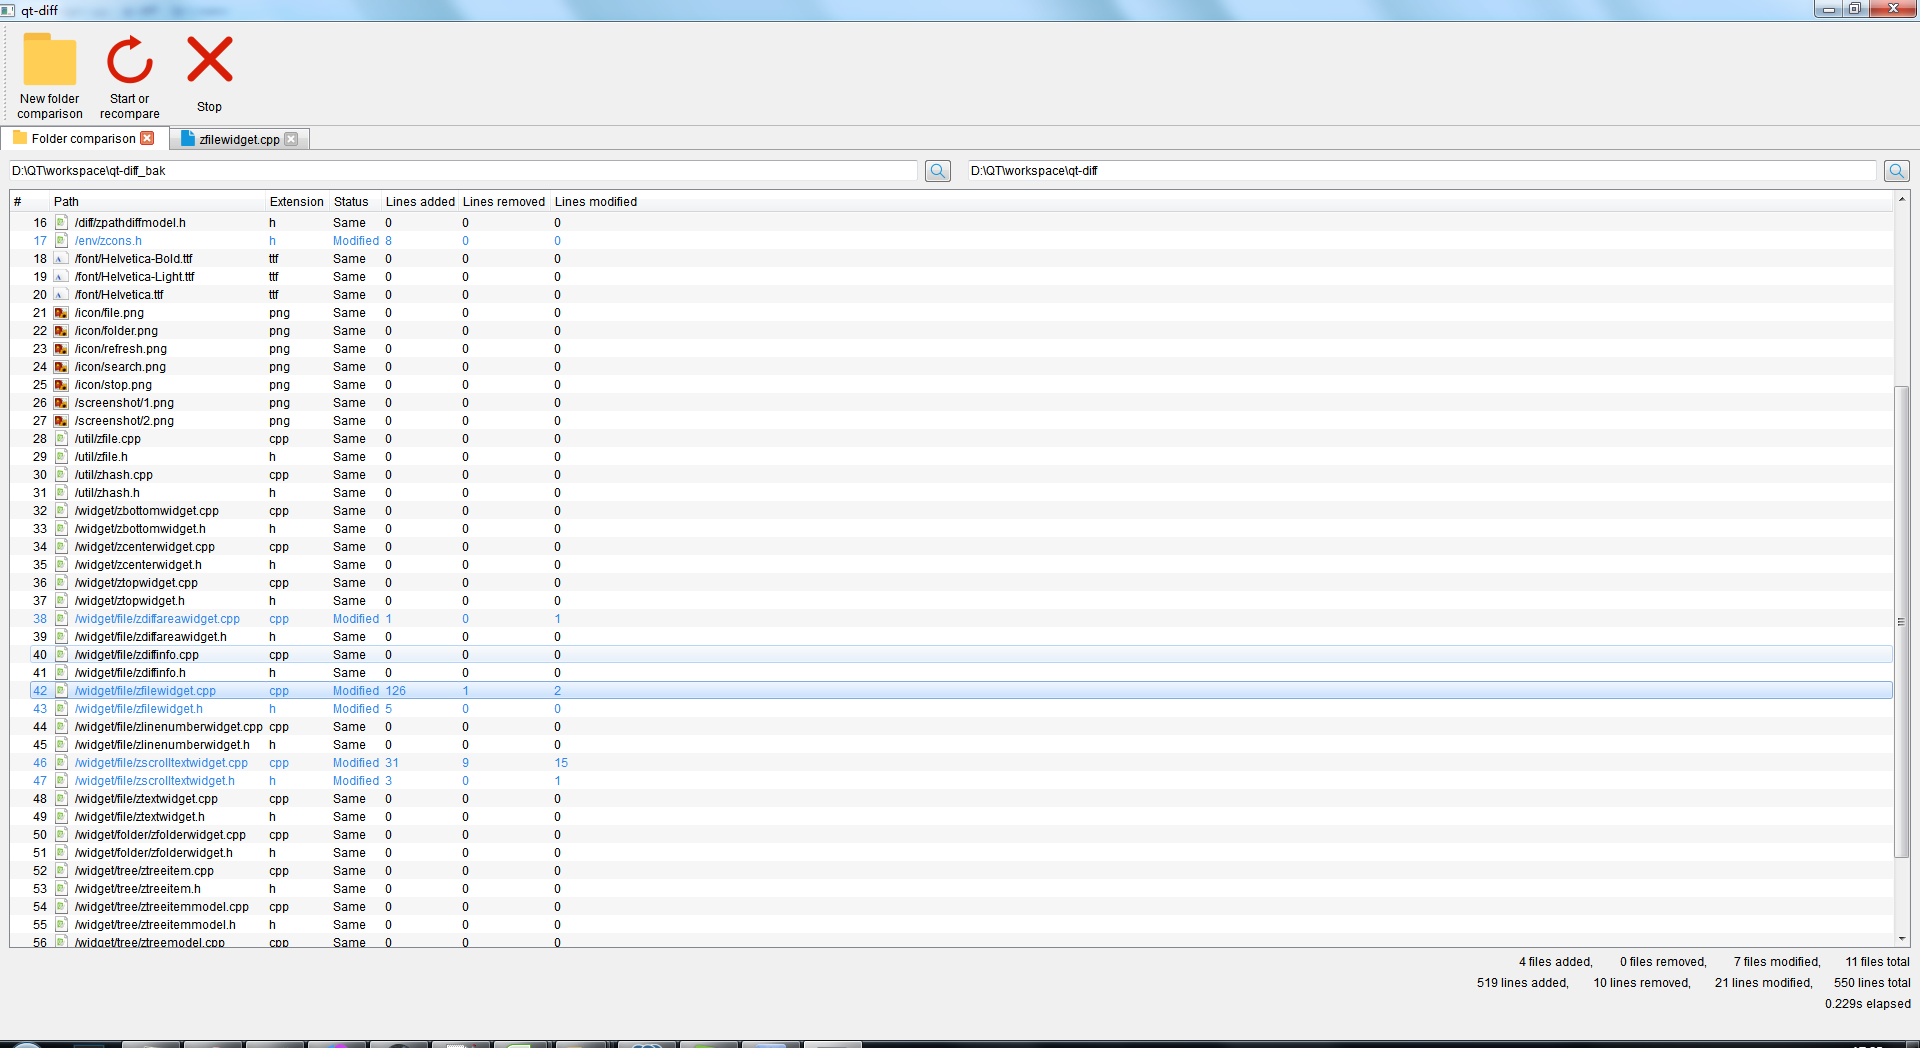
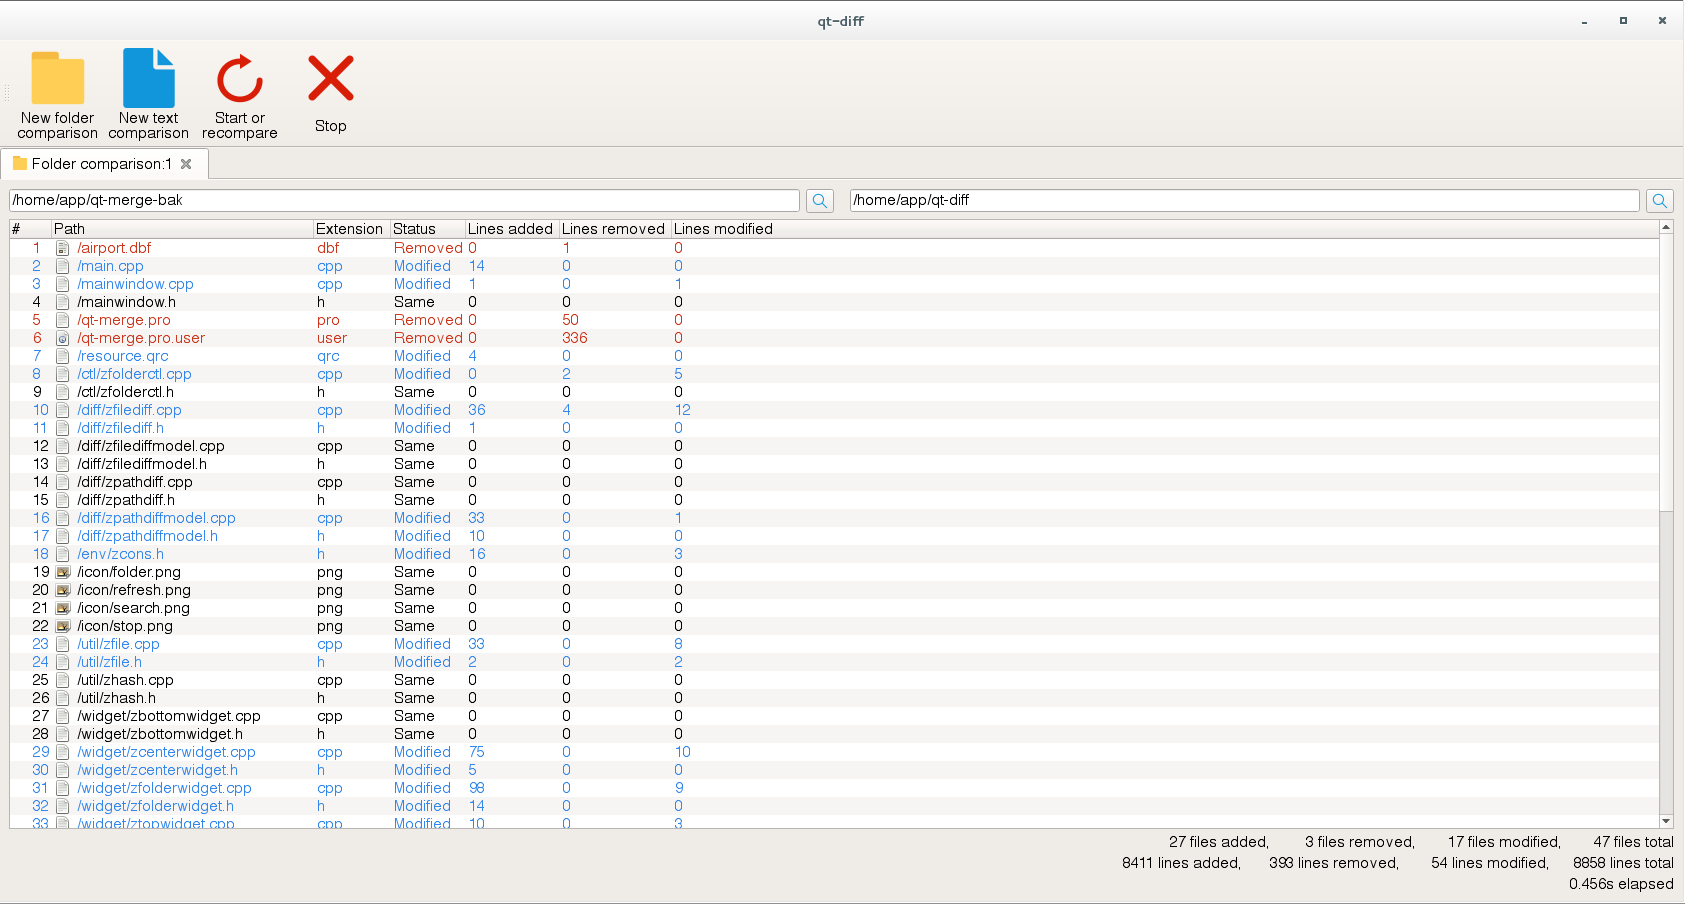
1. helvetica

Changed region(s): [[0.0, 0.0, 1.0, 1.0], [0.4629, 0.2168, 0.5864, 0.2478]]

diff --git a/widget/ztopwidget.cpp b/widget/ztopwidget.cpp
@@ -28,28 +28,28 @@ void ZTopWidget::initUI()
     mFolderButton->setIcon(folderIcon);
     mFolderButton->setText("New folder\ncomparison");
     mFolderButton->setToolButtonStyle(Qt::ToolButtonTextUnderIcon);
-    mFolderButton->setFixedSize(QSize(75, 100));
+    mFolderButton->setFixedSize(QSize(95, 100));
 
     mFileButton = new QToolButton;
     QIcon fileIcon(":/icon/file.png");
     mFileButton->setIcon(fileIcon);
     mFileButton->setText("New text\ncomparison");
     mFileButton->setToolButtonStyle(Qt::ToolButtonTextUnderIcon);
-    mFileButton->setFixedSize(QSize(75, 100));
+    mFileButton->setFixedSize(QSize(95, 100));
 
     mRefreshButton = new QToolButton;
     QIcon refreshIcon(":/icon/refresh.png");
     mRefreshButton->setIcon(refreshIcon);
     mRefreshButton->setText("Start or\nrecompare");
     mRefreshButton->setToolButtonStyle(Qt::ToolButtonTextUnderIcon);
-    mRefreshButton->setFixedSize(QSize(75, 100));
+    mRefreshButton->setFixedSize(QSize(95, 100));
 
     mStopButton = new QToolButton;
     QIcon stopIcon(":/icon/stop.png");
     mStopButton->setIcon(stopIcon);
     mStopButton->setText("Stop");
     mStopButton->setToolButtonStyle(Qt::ToolButtonTextUnderIcon);
-    mStopButton->setFixedSize(QSize(75, 100));
+    mStopButton->setFixedSize(QSize(95, 100));
 
     this->addWidget(mFolderButton);
     this->addWidget(mFileButton);

diff --git a/main.cpp b/main.cpp
@@ -14,7 +14,7 @@ int main(int argc, char *argv[])
     qDebug() << QFontDatabase::applicationFontFamilies(id);
 
     QFont font;
-    font.setFamily("Microsoft YaHei");
+    font.setFamily("Helvetica");
     qApp->setFont(font);
 
     MainWindow w;
